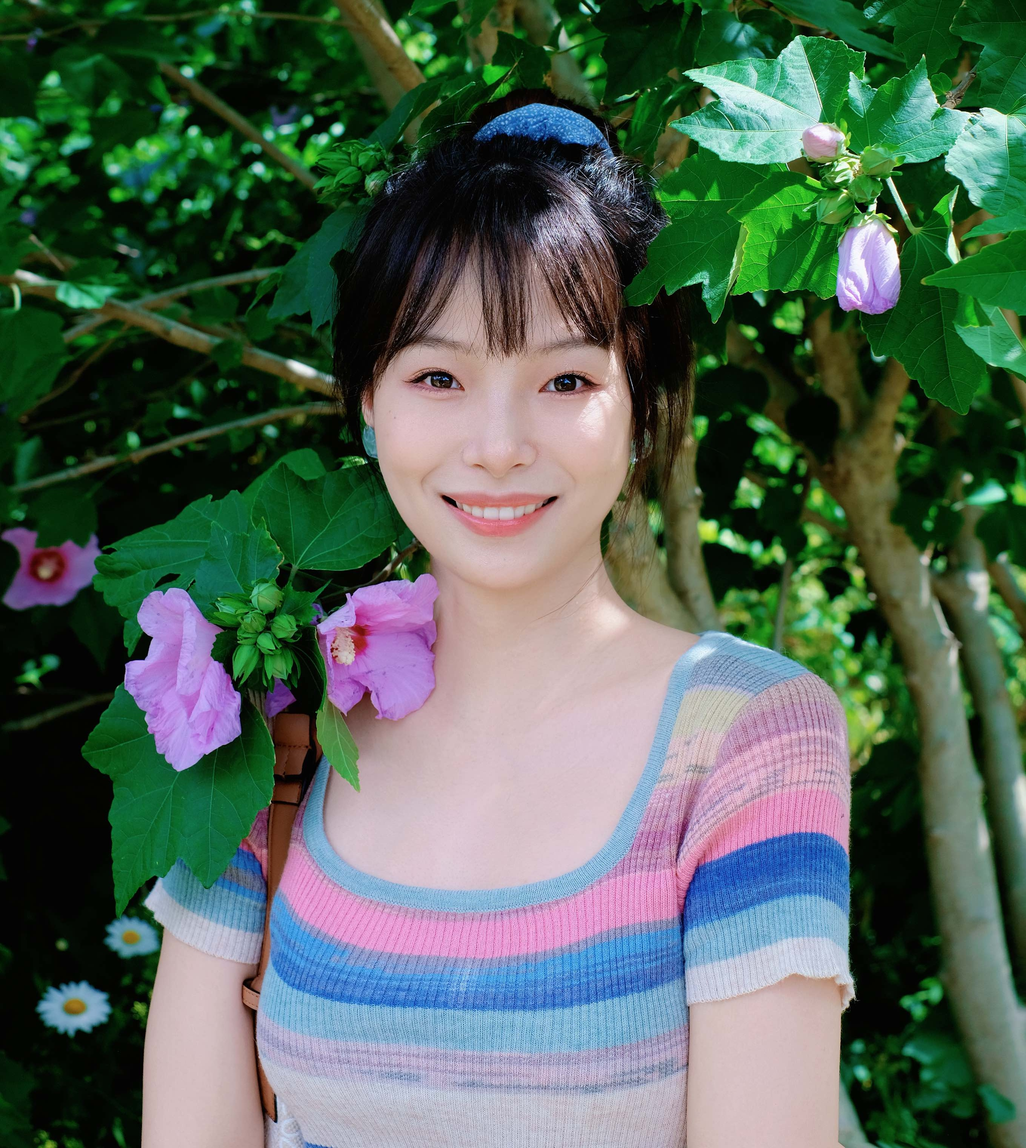
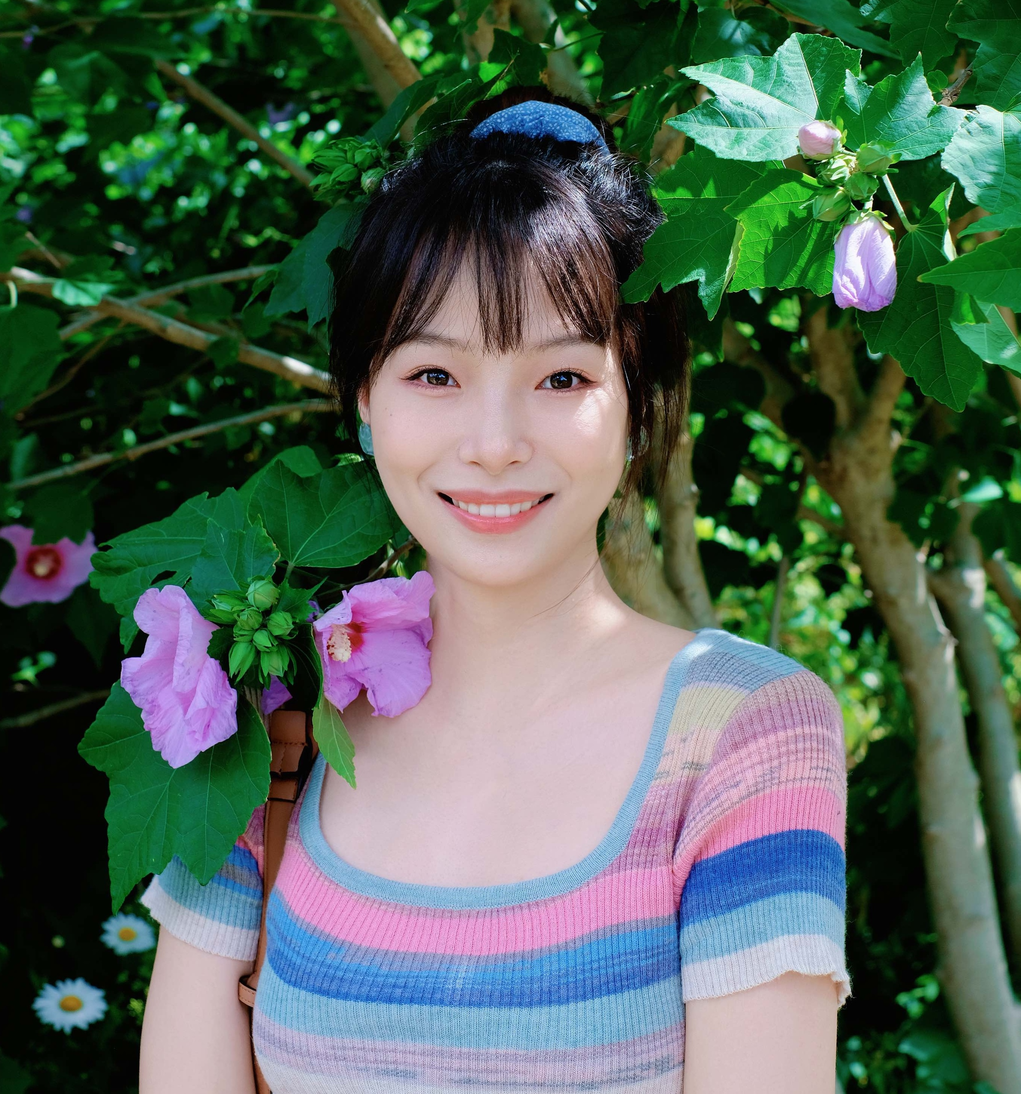
info added

diff --git a/people.md b/people.md
@@ -38,8 +38,8 @@ title: People
 
   <div class="row-fluid">
      <div class="span2">
-        <a href="./assets/pics/DD.JPG">
-            <img src="./assets/pics/DD.JPG"
+        <a href="./assets/pics/DD2.jpeg">
+            <img src="./assets/pics/DD2.jpeg"
                   title="Daoyu Duan" alt="Daoyu Duan"/></a>
         	</div>
 
